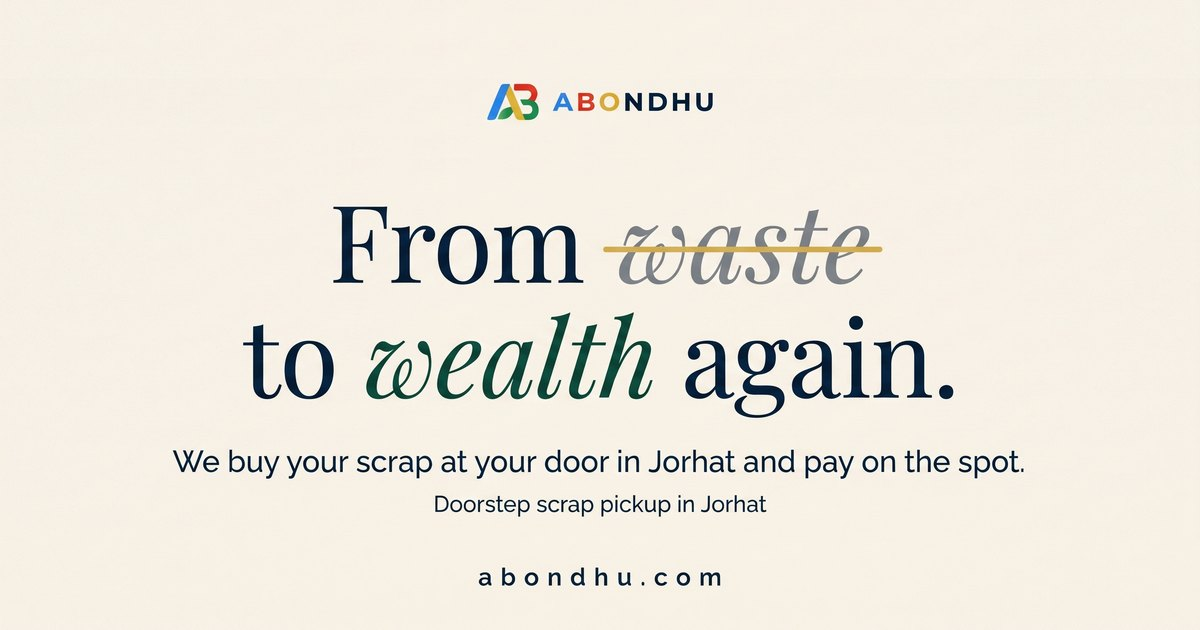
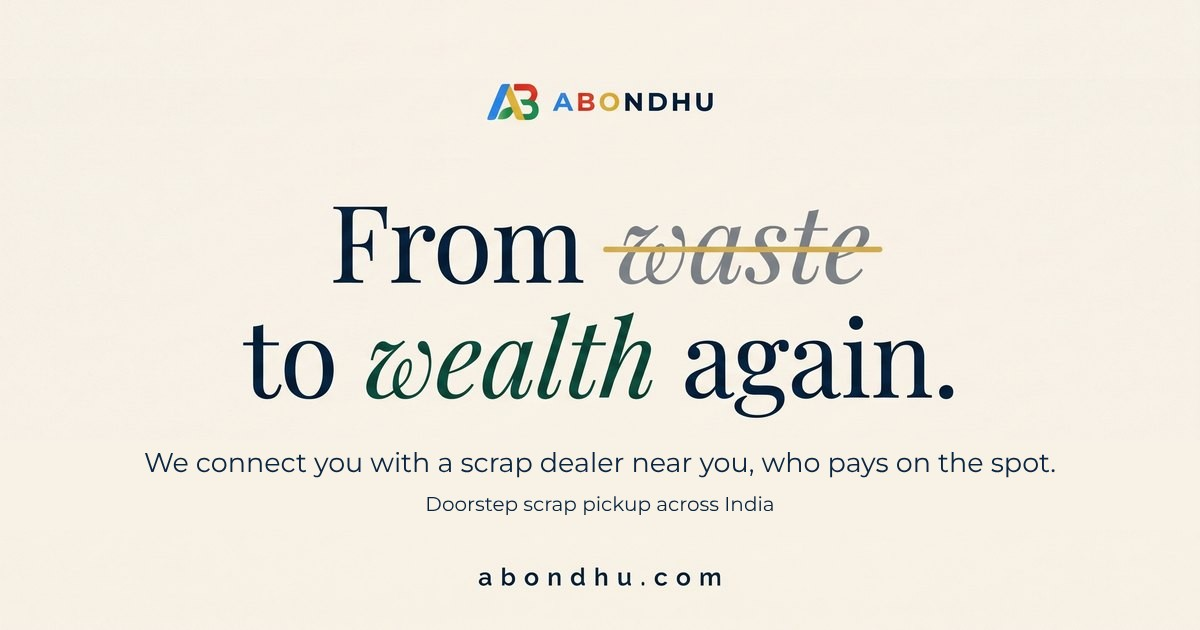
Reword the site: pan-India, and Abondhu connects you to scrap dealers
Abondhu does not buy scrap; it matches households with verified local
dealers who weigh, buy and pay on the spot. Updated hero, trust strip,
steps, rates, booking note, dealer section, FAQ (new 'Does Abondhu buy
my scrap?'), footer, page metadata and the WhatsApp link preview image.
Booking still accepts Jorhat pincodes only; the copy says so.

Claude-Session: https://claude.ai/code/session_019bw9XWGBtRsnuLSqecGgZ2

Changed region(s): [[0.1233, 0.6937, 0.8942, 0.754], [0.3392, 0.7841, 0.6475, 0.8143]]

diff --git a/src/components/site/Sections.tsx b/src/components/site/Sections.tsx
@@ -14,8 +14,8 @@ import { Brand, btn, Container, SectionHead, serifTitle } from "./ui";
 
 const TRUST: { icon: LucideIcon; title: string; body: string }[] = [
   { icon: Scale, title: "Weighed in front of you", body: "Calibrated digital scales" },
-  { icon: HandCoins, title: "Paid on the spot", body: "UPI, bank transfer or cash" },
-  { icon: ShieldCheck, title: "Verified partners", body: "ID-checked and in uniform" },
+  { icon: HandCoins, title: "Paid on the spot", body: "By the dealer, in UPI or cash" },
+  { icon: ShieldCheck, title: "Verified dealers", body: "ID-checked by Abondhu" },
   { icon: Recycle, title: "Recycled, not dumped", body: "Licensed recyclers only" },
 ];
 
@@ -42,9 +42,9 @@ export function TrustStrip() {
 }
 
 const STEPS: { icon: LucideIcon; title: string; body: string }[] = [
-  { icon: Truck, title: "We come to you", body: "Book in a minute. Free pickup anywhere in Jorhat town, same or next day." },
+  { icon: Truck, title: "We send a dealer", body: "Book in a minute. We match you with a verified scrap dealer near you. Pickup is free." },
   { icon: Scale, title: "Weighed at your door", body: "Each kind of scrap goes on a digital scale you can read for yourself." },
-  { icon: IndianRupee, title: "Paid on the spot", body: "Cash or UPI before we leave, with a receipt for every item." },
+  { icon: IndianRupee, title: "Paid on the spot", body: "The dealer buys your scrap and pays you in cash or UPI, with a receipt for every item." },
   { icon: Recycle, title: "Recycled, not dumped", body: "Sorted and sent to licensed recyclers, so it comes back as new material." },
 ];
 
@@ -186,13 +186,13 @@ export function Footer() {
         <div className="grid content-start gap-4">
           <Link href="/" aria-label="Abondhu home" className="justify-self-start"><Brand light /></Link>
           <p className="max-w-[36ch] text-sm font-light leading-relaxed text-white/60">
-            Wealth from waste, in Jorhat. Weighed in front of you, paid on the spot, and never dumped.
+            Wealth from waste, across India. We connect you with verified scrap dealers who weigh in front of you, pay on the spot, and never dump.
           </p>
         </div>
         <div>
           <p className="mb-5 text-xs font-bold uppercase tracking-widest text-white/40">Explore</p>
           <nav className="grid gap-1 text-sm font-light text-white/70">
-            {[["/#how", "How it works"], ["/#rates", "Today's rates"], ["/#book", "Book a pickup"], ["/vendor", ""], ["/#faq", "Questions"]].map(([href, label]) =>
+            {[["/#how", "How it works"], ["/#rates", "Dealer rates"], ["/#book", "Book a pickup"], ["/vendor", ""], ["/#faq", "Questions"]].map(([href, label]) =>
               href === "/vendor" ? (
                 <VendorLink key={href} className={footLink} />
               ) : (
@@ -206,7 +206,7 @@ export function Footer() {
           <div className="grid gap-3 text-sm font-light text-white/70">
             <span>WhatsApp <span className="font-mono text-white">+91 91813 30755</span></span>
             <span>8am to 8pm, every day</span>
-            <span>Jorhat, Assam</span>
+            <span>Based in Jorhat, Assam</span>
           </div>
         </div>
       </Container>

diff --git a/src/lib/site-data.ts b/src/lib/site-data.ts
@@ -1,6 +1,6 @@
 export type Unit = "kg" | "pc";
 
-/** What we buy, with sample starting rates for Jorhat. */
+/** What dealers buy, with sample starting rates (Jorhat for now). */
 export const BUY: { id: string; name: string; price: number; unit: Unit; examples: string }[] = [
   { id: "paper", name: "Newspaper and books", price: 12, unit: "kg", examples: "Papers, copies, magazines" },
   { id: "cardboard", name: "Cardboard", price: 10, unit: "kg", examples: "Cartons and boxes" },
@@ -10,7 +10,7 @@ export const BUY: { id: string; name: string; price: number; unit: Unit; example
   { id: "appliance", name: "Fridges, ACs, washers", price: 900, unit: "pc", examples: "Any condition" },
 ];
 
-/** Jorhat only for now. Localities the vans cover every day (mock list). */
+/** Bookings are open in Jorhat only for now. Localities covered every day (mock list). */
 export const LOCALITIES = [
   "Gar-Ali",
   "AT Road",
@@ -28,12 +28,16 @@ export const PIN_RE = /^785\d{3}$/;
 
 export const FAQS = [
   {
+    q: "Does Abondhu buy my scrap?",
+    a: "No. Abondhu is a free service that connects you with a verified scrap dealer near you. The dealer weighs your scrap in front of you, buys it and pays you directly.",
+  },
+  {
     q: "Where does my scrap actually go?",
-    a: "Paper goes to a paper mill, metal to a foundry, plastic to a pelletising unit and appliances to an authorised e-waste recycler. Every partner is licensed, and nothing is burnt, buried or dumped.",
+    a: "Dealers send paper to a paper mill, metal to a foundry, plastic to a pelletising unit and appliances to an authorised e-waste recycler. Nothing is burnt, buried or dumped.",
   },
   {
     q: "Which areas do you cover?",
-    a: "Jorhat town only for now, every day: Gar-Ali, AT Road, Tarajan, Cinnamara, Rowriah, Na-Ali and the areas around them. If your pincode starts with 785 and you are in town, we come to you.",
+    a: "Abondhu is for all of India, and opens city by city as dealers join. Pickups are open in Jorhat now, every day: Gar-Ali, AT Road, Tarajan, Cinnamara, Rowriah, Na-Ali and the areas around them. Elsewhere? WhatsApp us and we will tell you when your area opens.",
   },
   {
     q: "Is there a minimum quantity?",
@@ -41,7 +45,7 @@ export const FAQS = [
   },
   {
     q: "How do I know the weight is right?",
-    a: "Every partner carries a calibrated digital scale. Each kind of scrap is weighed separately in front of you, and every reading goes on your receipt.",
+    a: "Every dealer carries a calibrated digital scale. Each kind of scrap is weighed separately in front of you, and every reading goes on your receipt.",
   },
   {
     q: "What don't you take?",
@@ -49,6 +53,6 @@ export const FAQS = [
   },
   {
     q: "Do you work with shops and tea estates?",
-    a: "Yes. We collect cartons, gunny bags, machinery scrap, drums and old electricals from shops, offices and estates around Jorhat on a fixed schedule, with a weight report and GST invoice.",
+    a: "Yes. We can match you with a dealer who collects cartons, gunny bags, machinery scrap, drums and old electricals from shops, offices and tea estates on a fixed schedule, with a weight report.",
   },
 ];

diff --git a/src/components/site/VendorCta.tsx b/src/components/site/VendorCta.tsx
@@ -8,30 +8,30 @@ import { VendorLink } from "./VendorLink";
 const PERKS = [
   { icon: Route, title: "Pickups booked on your route", body: "Households near you book online. You get the list the evening before." },
   { icon: Scale, title: "A calibrated scale and the app", body: "Weigh in front of the customer, print the slip, no arguments." },
-  { icon: Wallet, title: "Paid every day by UPI", body: "Your earnings land the same evening, with a statement for every pickup." },
+  { icon: Wallet, title: "Your scrap, your profit", body: "You buy from the household and sell on, the way you do today." },
   { icon: BadgeCheck, title: "A verified Abondhu badge", body: "ID card and uniform, so households know who is at the door." },
 ];
 
-/** For the kabadiwalas and scrap collectors who make the whole thing work. */
+/** For the kabadiwalas and scrap dealers who make the whole thing work. */
 export function VendorCta() {
   return (
     <section id="vendors" className="relative scroll-mt-20 bg-midnight py-20 text-white md:py-28">
       <TornEdge className="text-midnight" />
       <Container className="grid gap-12 lg:grid-cols-[1fr_1.1fr] lg:gap-20">
         <Reveal className="grid content-start gap-6">
-          <Eyebrow tone="gold">For scrap collectors</Eyebrow>
+          <Eyebrow tone="gold">For scrap dealers</Eyebrow>
           <h2 className="font-serif text-[clamp(36px,4.4vw,56px)] leading-[1.06]">
-            Already collect scrap? <span className="italic text-gold">Earn more with us.</span>
+            Already deal in scrap? <span className="italic text-gold">Earn more with us.</span>
           </h2>
           <p className="max-w-[44ch] text-[17px] font-light leading-relaxed text-white/75">
-            Abondhu is built on local vendors. We bring the bookings, the tools and the trust. You bring the cart, the
-            auto or the truck, and keep the route you know.
+            Abondhu does not buy scrap. We connect households with local dealers like you. We bring the bookings, the
+            tools and the trust. You bring the cart, the auto or the truck, and keep the route you know.
           </p>
           <div className="flex flex-col gap-3 sm:flex-row sm:items-center sm:gap-6">
             <VendorLink className={cn(btn.base, btn.gold)}>
               <ArrowRight className="size-4" aria-hidden />
             </VendorLink>
-            <span className="text-sm font-light text-white/55">Free to join. Jorhat town only for now.</span>
+            <span className="text-sm font-light text-white/55">Free to join. Open in Jorhat now, more cities soon.</span>
           </div>
         </Reveal>
         <Stagger as="ul" className="grid gap-px overflow-hidden border border-white/10 bg-white/10 sm:grid-cols-2">

diff --git a/src/components/site/WhatWeBuy.tsx b/src/components/site/WhatWeBuy.tsx
@@ -23,7 +23,7 @@ const ICONS: Record<string, LucideIcon> = {
 const SAMPLE: Record<string, number> = { paper: 14.2, cardboard: 6.5, metal: 9.8, plastic: 3.1, ewaste: 2, appliance: 1 };
 
 /**
- * Six things we buy and what they start at, with the LED weight meter above them.
+ * Six things dealers buy and what they start at, with the LED weight meter above them.
  * Tap an item and it goes on the scale: the digits run up, overshoot a hair and settle, like a real scale.
  */
 export function WhatWeBuy() {
@@ -56,8 +56,8 @@ export function WhatWeBuy() {
   return (
     <section id="rates" className="scroll-mt-20 bg-cream py-20 md:py-28">
       <Container>
-        <SectionHead title="Today's rates in Jorhat" eyebrow="What we buy" center>
-          Starting prices. The digital scale at your door sets the final figure. Tap an item to put it on the scale.
+        <SectionHead title="Today's dealer rates" eyebrow="What dealers buy" center>
+          Starting prices. Rates vary by city, and the dealer&apos;s digital scale at your door sets the final figure. Tap an item to put it on the scale.
         </SectionHead>
 
         <div ref={meter} className="mx-auto mb-6 max-w-[560px]">

diff --git a/src/components/site/Hero.tsx b/src/components/site/Hero.tsx
@@ -19,12 +19,12 @@ export function Hero() {
           <div className="hero-rise" style={delay(0)}>
             <span className="inline-flex items-center gap-2 rounded-full border border-forest/30 bg-white px-3.5 py-2 text-[11px] font-bold uppercase tracking-[0.14em] text-forest sm:text-xs">
               <Recycle className="size-4" strokeWidth={2} aria-hidden />
-              Doorstep scrap pickup in Jorhat
+              Scrap pickup across India
             </span>
           </div>
           <div className="hero-rise" style={delay(0.08)}><WasteToWealth /></div>
           <p className="hero-rise max-w-[34ch] text-lg font-light leading-relaxed text-muted sm:text-xl" style={delay(0.16)}>
-            We buy your scrap at your door in Jorhat and pay on the spot.
+            We connect you with a verified scrap dealer near you, who buys your scrap at your door and pays on the spot.
           </p>
           <div className="hero-rise flex w-full flex-col gap-5 pt-1 sm:w-auto sm:flex-row sm:items-center sm:gap-8" style={delay(0.24)}>
             <Link href="/account" className={cn(btn.base, btn.primary)}>

diff --git a/src/components/site/BookingBar.tsx b/src/components/site/BookingBar.tsx
@@ -52,7 +52,7 @@ export function BookingBar() {
 
   const message =
     error === "pin"
-      ? "We only pick up in Jorhat for now. Enter a 6-digit pincode starting with 785."
+      ? "Pickups are open in Jorhat for now. Enter a 6-digit pincode starting with 785."
       : error === "phone"
         ? "Enter a 10-digit mobile number starting with 6, 7, 8 or 9."
         : "No charge for pickup. Next, log in with Google or your phone to confirm.";
@@ -63,7 +63,7 @@ export function BookingBar() {
         <Reveal className="grid content-start gap-5">
           <h2 className={serifTitle}>Book a pickup</h2>
           <p className="max-w-[40ch] font-light leading-relaxed text-muted">
-            Anywhere in Jorhat town, every day of the week. Pick your area and a day, and we call you to confirm a time.
+            Pickups are open in Jorhat now, with more cities joining as dealers sign up. Pick your area and a day, and we call you to confirm a time with a dealer near you.
           </p>
         </Reveal>
 

diff --git a/src/app/layout.tsx b/src/app/layout.tsx
@@ -14,9 +14,9 @@ const playfair = localFont({
 });
 const geistMono = localFont({ src: "./fonts/geist-mono-latin-wght-normal.woff2", weight: "100 900", variable: "--font-geist-mono" });
 
-const title = "Abondhu | Wealth from waste, doorstep scrap pickup in Jorhat";
+const title = "Abondhu | Wealth from waste, doorstep scrap pickup across India";
 const description =
-  "Doorstep scrap pickup in Jorhat. Weighed on a digital scale in front of you, paid on the spot, and sent to licensed recyclers.";
+  "Abondhu connects you with a verified scrap dealer near you. The dealer weighs your scrap on a digital scale in front of you, pays you on the spot, and sends it to licensed recyclers.";
 
 // The link preview image is src/app/opengraph-image.jpg (1200 x 630); Next adds its tags.
 // metadataBase makes its URL absolute, which WhatsApp and other apps need.

diff --git a/src/components/customer/BookPickup.tsx b/src/components/customer/BookPickup.tsx
@@ -101,7 +101,7 @@ export function BookPickup() {
       if (name.length < 2) fail("Please write your name.");
       if (!isMobile(phone)) fail("Enter a 10-digit mobile number starting with 6, 7, 8 or 9.");
       if (line1.length < 5) fail("Please write your house and street.");
-      if (!isJorhatPin(f.pin)) fail("We only pick up in Jorhat for now. Enter a 6-digit pincode starting with 785.");
+      if (!isJorhatPin(f.pin)) fail("Pickups are open in Jorhat for now. Enter a 6-digit pincode starting with 785.");
 
       const uid = (await sb!.auth.getSession()).data.session?.user.id ?? fail("Please log in again.");
       const { data: pin } = await sb!.from("pincodes").select("town_id").eq("pincode", f.pin.trim()).eq("is_active", true).maybeSingle();

diff --git a/src/components/site/VendorLink.tsx b/src/components/site/VendorLink.tsx
@@ -25,7 +25,7 @@ function checkVendor(): Promise<boolean> {
 }
 
 /**
- * "Become a vendor" link that turns into "Visit your dashboard" (to /partner)
+ * "Become a dealer" link that turns into "Visit your dashboard" (to /partner)
  * for someone already signed up as a vendor.
  */
 export function VendorLink({ className, onClick, children, ...rest }: {
@@ -44,7 +44,7 @@ export function VendorLink({ className, onClick, children, ...rest }: {
   }, []);
   return (
     <Link href={isVendor ? "/partner" : "/vendor"} className={className} onClick={onClick} {...rest}>
-      {isVendor ? "Visit your dashboard" : "Become a vendor"} {children}
+      {isVendor ? "Visit your dashboard" : "Become a dealer"} {children}
     </Link>
   );
 }

diff --git a/src/components/site/ProcessRing.tsx b/src/components/site/ProcessRing.tsx
@@ -81,7 +81,7 @@ export function ProcessRing({ className }: { className?: string }) {
           <Recycle className="size-[clamp(32px,7vw,52px)]" strokeWidth={1.6} />
         </span>
         <span className="mt-2 font-serif text-[clamp(18px,3.4vw,26px)] text-navy sm:mt-3">Waste to wealth</span>
-        <span className="mt-1 text-[10px] font-bold uppercase tracking-[0.18em] text-forest sm:text-[11px]">Jorhat</span>
+        <span className="mt-1 text-[10px] font-bold uppercase tracking-[0.18em] text-forest sm:text-[11px]">Across India</span>
       </div>
 
       {/* step words in the four corners, a real list for screen readers */}

diff --git a/src/app/account/page.tsx b/src/app/account/page.tsx
@@ -6,7 +6,7 @@ import { Footer } from "@/components/site/Sections";
 
 export const metadata: Metadata = {
   title: "Log in | Abondhu",
-  description: "Log in to sell your scrap with Abondhu in Jorhat.",
+  description: "Log in to book a scrap pickup with Abondhu.",
   robots: { index: false, follow: false },
 };
 
